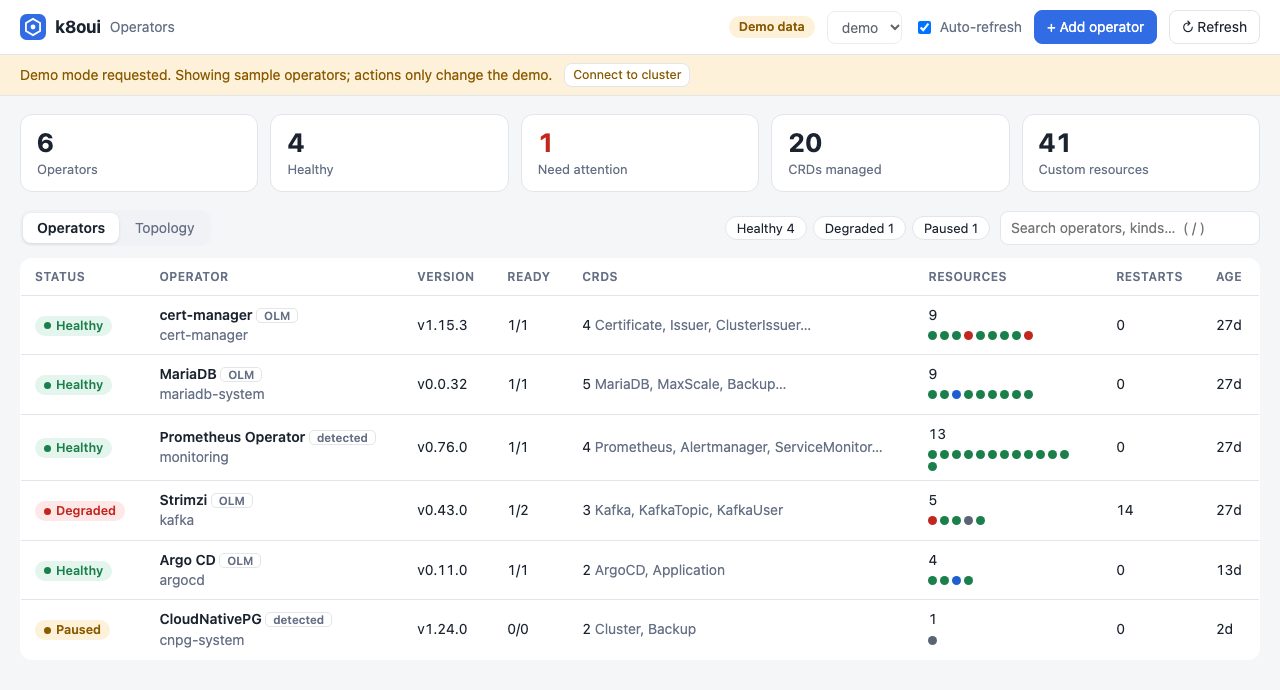
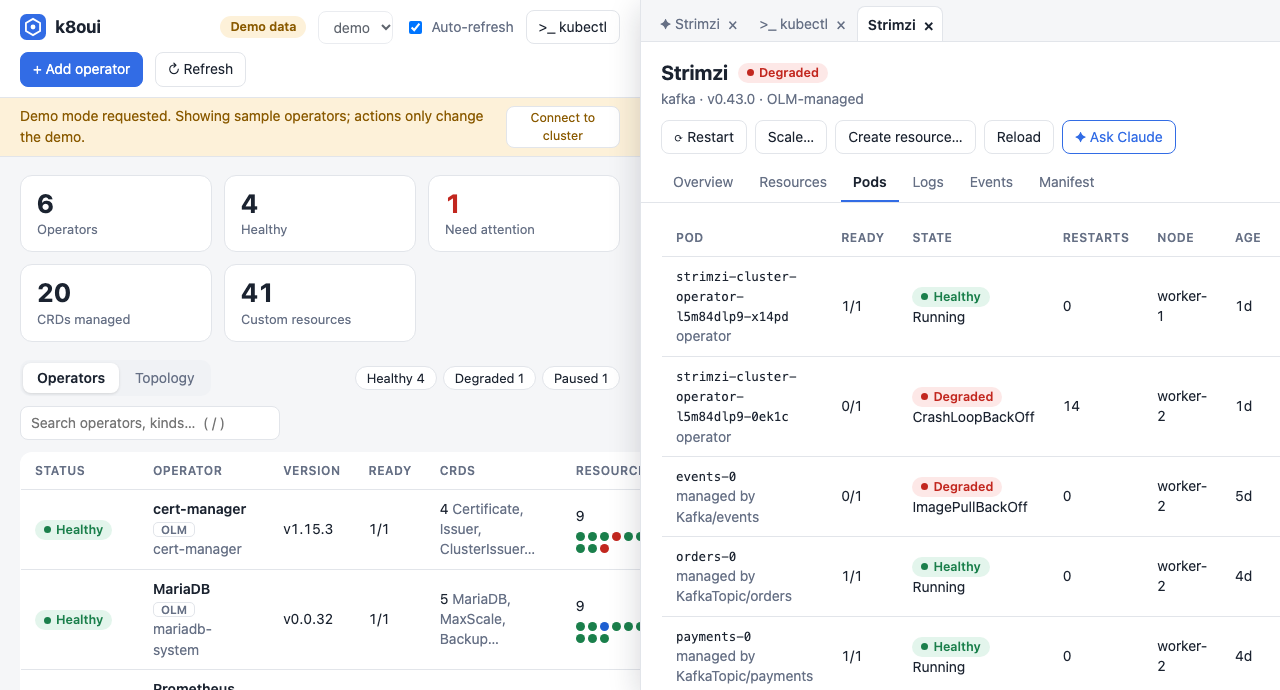
Update screenshot for the workspace dock; keep the header usable while the dock is open

diff --git a/public/style.css b/public/style.css
@@ -102,7 +102,7 @@ td .name { font-weight: 600; }
 .dock-panes { flex: 1; min-height: 0; position: relative; }
 .dock-pane { position: absolute; inset: 0; overflow-y: auto; }
 .dock-pane[hidden] { display: none; }
-@media (min-width: 1100px) { body.dock-open { padding-right: 640px; } }
+@media (min-width: 1100px) { body.dock-open { padding-right: 640px; } body.dock-open .top { flex-wrap: wrap; row-gap: 8px; } body.dock-open .brand small { display: none; } }
 .dh { padding: 16px 20px 0; position: sticky; top: 0; background: var(--panel); z-index: 2; border-bottom: 1px solid var(--line); }
 .dh h2 { margin: 0; font-size: 20px; display: flex; gap: 10px; align-items: center; flex-wrap: wrap; }
 .dh .sub { color: var(--muted); margin: 2px 0 10px; }

diff --git a/README.md b/README.md
@@ -9,7 +9,7 @@ node server.js --context kind-foo --port 7788
 ```
 Then open http://127.0.0.1:7788.
 
-![k8oui showing operators with health, CRDs and resource counts (demo data)](docs/screenshot.png)
+![k8oui showing the operators list and the workspace dock with operator, Claude and kubectl tabs (demo data)](docs/screenshot.png)
 
 ## What it does
 - **Operators list**: health, version, replicas, CRDs, custom-resource counts, restarts.
